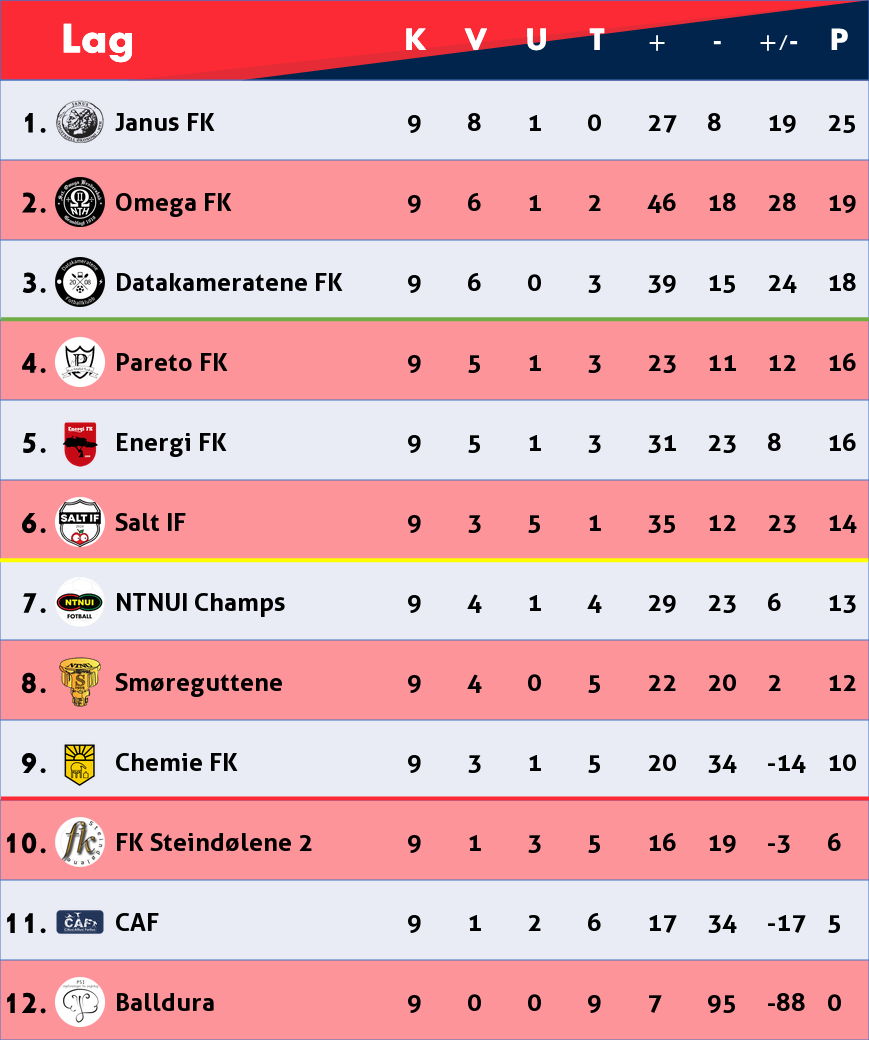
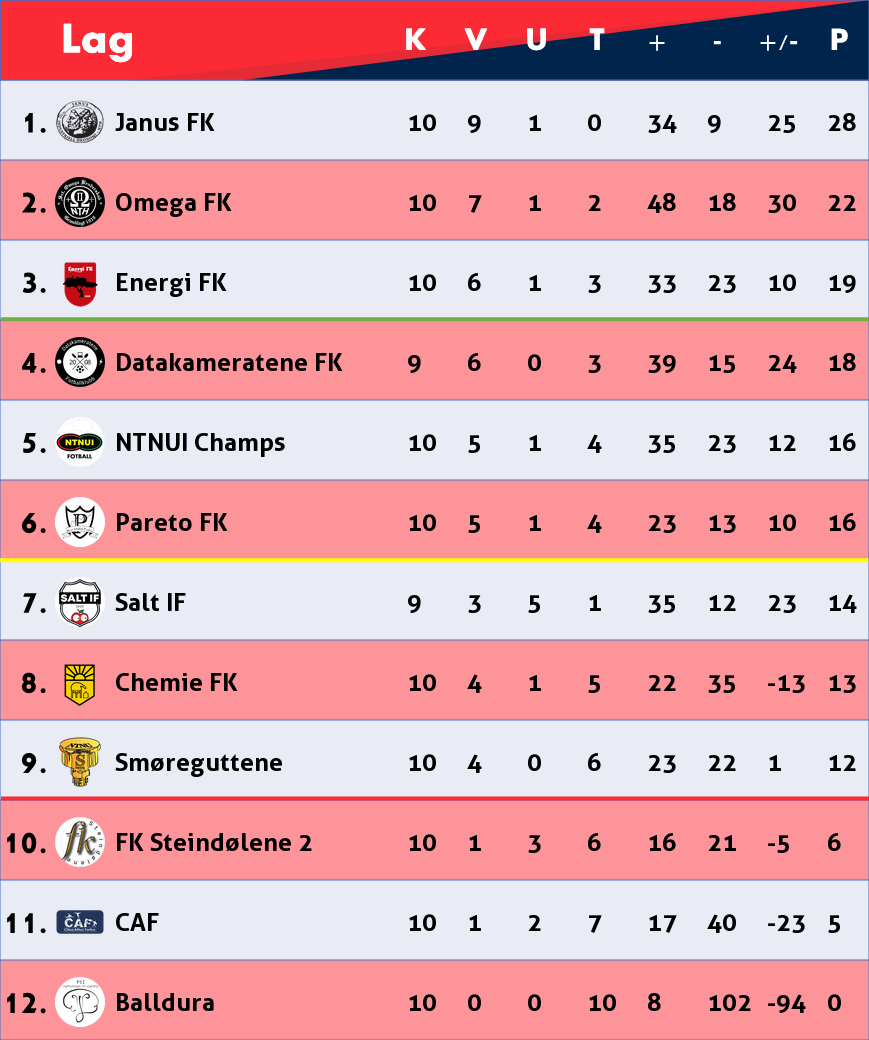
Updated table

diff --git a/Scripts/main.py b/Scripts/main.py
@@ -1,17 +1,30 @@
 from TableGenerator import main
+from git import Repo
 
-# Velg avdeling: A = 0, B = 1
-inp = False
+PATH_OF_GIT_REPO = r"C:\Users\Simen\Tables2\tables"
+COMMIT_MESSAGE = 'Updated table'
 
-while not inp:
+def git_push():
+    repo = Repo(PATH_OF_GIT_REPO)
+    repo.git.add(update=True)
+    repo.index.commit(COMMIT_MESSAGE)
+    origin = repo.remote(name='origin')
+    origin.push()   
+
+end = "n"
+while end.lower() == "n":
     avd = input("What table to update? ")
     if avd.lower() == "a":
-        inp = True
         avd = 0
+        main(avd)
+        print("Table A updated\n")
+        end = input("Done? [y/n] ")
     elif avd.lower() == "b":
-        inp = True
         avd = 1
+        main(avd)
+        print("Table B updated\n")
+        end = input("Done? [y/n] ")
     else:
         print(f"{avd} is not a group\n")
-        
-main(avd)
+
+git_push()
